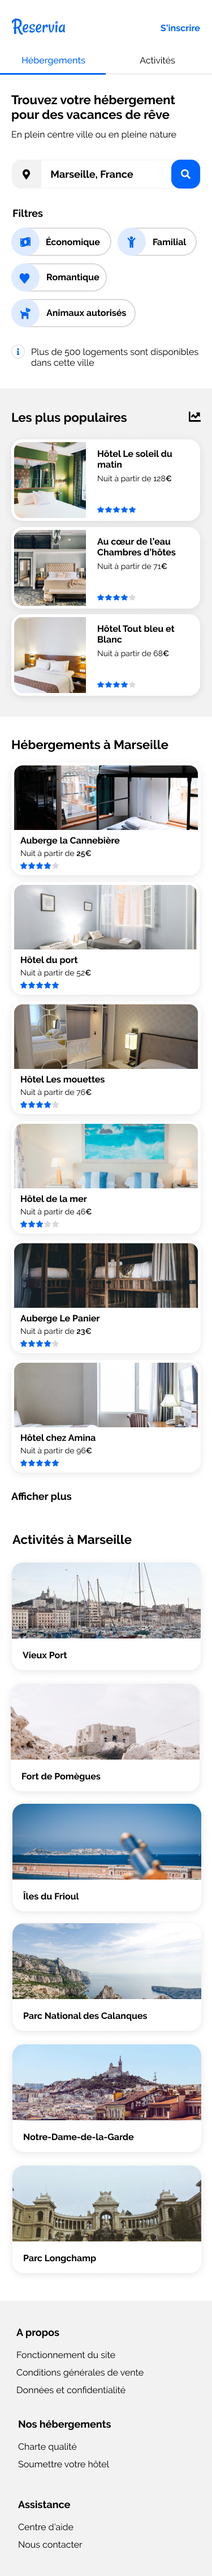
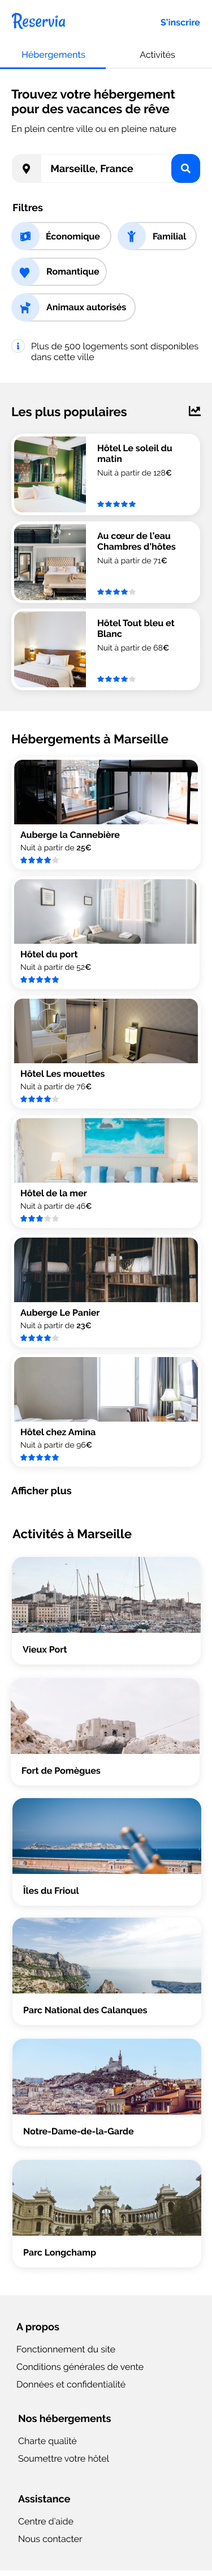
MAJ fichier css

Changed region(s): [[0.0293, 0.0, 0.968, 0.9987], [0.9093, 0.156, 0.9387, 0.1873]]

diff --git a/style.css b/style.css
@@ -1,7 +1,29 @@
+/** POLICES **/
+
 @font-face{
     font-family: raleway;
     src: url("./Raleway/static/Raleway-Regular.ttf");
 }
+
+@font-face{
+    font-family: raleway_bold;
+    src: url("./Raleway/static/Raleway-Bold.ttf")
+}
+
+@font-face{
+    font-family: raleway_extra_bold;
+    src: url("./Raleway/static/Raleway-ExtraBold.ttf")
+}
+
+@font-face{
+    font-family: raleway_black;
+    src: url("./Raleway/static/Raleway-Black.ttf")
+}
+
+
+
+
+/** GENERAL **/
 
 body, html {
     width: 100%;
@@ -16,9 +38,100 @@ h2{
     text-align:center;
 }
 
-img {
-    width: 100%;
+
+
+
+
+/** SECTION 1 **/
+
+#section-1{
+    display: flex;
+    flex-direction: column-reverse;
 }
+
+
+
+
+/** HEBERGEMENTS [SECTION-1] **/
+
+
+
+
+/** LES PLUS POPULAIRES [SECTION-1] **/
+
+
+#populaires{
+    width: 100%;
+    display: flex;
+    flex-wrap: wrap;
+    justify-content: center;
+
+    background-color: #f2f2f2;
+}
+
+#populaires h2{
+    margin: 0;
+    font-size: 16px;
+    font-family: raleway_extra_bold;
+    justify-self: left;
+}
+
+#populaires figure{
+    display: flex;
+    flex-flow: row wrap;
+    align-items: center;
+
+    margin: 5px 0;
+    height: 134px;
+    width: 100%-40px;
+    padding: 4px;
+    border-radius: 12px;
+    background-color: white;
+}
+
+#populaires figure figcaption{
+    display: flex;
+    flex-flow: column wrap;
+
+    height: 134px;
+}
+
+#populaires figure img{
+    object-fit: cover;
+    height: 134px;
+    width: 127px;
+    border-top-left-radius: 12px;
+    border-bottom-left-radius: 12px;
+}
+
+#populaires figure h4{
+    display: flex;
+    flex-wrap: wrap;
+
+    margin: 0px 0px 0px 0px;
+    font-family: raleway_extra_bold;
+
+
+}
+
+#populaires figure p{
+    margin: 0px 0px;
+    font-size: 13px;
+}
+
+#populaires figure div{
+    margin: 0px 0 0px 0px;
+    font-size: 11px;
+    color: #0065fc;
+}
+
+.etoile_vide{
+    color: #d9d9d9;
+    font-size: 11px;
+    margin: 0px 0px 0px 0px;
+}
+
+
 
 
 /** HEADER **/
@@ -81,53 +194,105 @@ header nav ul li a{
 }
 
 
+
+
 /** SECTION ACCEUIL **/
 
-#acceuil{
-    margin: 0 0 0 20px;
+.acceuil{
+    margin: 0 20px 0 20px;
 }
 
-h1{
+.acceuil p{
+    width:85%;
+    margin:0;
+}
+
+.acceuil h1{
     font-size: 20px;
     width: 85%;
     margin: 0 0 10px 0;
 }
 
-#acceuil p{
-    width:85%;
-    margin:0;
+.acceuil h3{
+    font-size: 16px;
+    font-family: raleway_extra_bold;
 }
 
-.button div {
-    width: 40px;
-    height: 40px;
-    border-radius: 40px;
-    background-color: #deebff; 
+.filtres{
+    display: flex;
+    flex-wrap: wrap;
 }
+
+button{
+    display: flex;
+    flex-direction: row;
+    align-items: center;
+
+    padding: 0px;
+    height: 50px;
+    border: 2px solid #e6e6e6;
+    background-color: white;
+    border-radius: 50px;
+    margin: 0px 10px 10px 0px;
+    font-family: raleway_bold;
+    cursor: pointer;
+}
+
+button:hover{
+    background-color: #e6e6e6;
+}
+
+.rond_bleu{
+    display: flex;
+    align-items: center;
+    justify-content: center;
+
+    width: 50px;
+    height: 50px;
+    border-radius: 50px;
+    background-color: #deebff;
+    z-index: 1;
+    margin-left: -2px;
+    color: #0065fc;
+    font-size: 16px;
+}
+
+.texte_filtre{
+    margin: 0px 14px 0px 12px;
+    font-size: 16px;
+}
+
+
+
 
 /** ASIDE **/
 
-aside p{
-    margin: 0;
-}
-
-aside {
+aside div{
     display: flex;
-    align-items: flex-start ;
-    margin: 0px 20px 0px 20px;
+    justify-content: center;
+    align-items: center;
+    flex: none;
+
+    width: 20px;
+    height: 20px;
+    border-radius: 20px;
+    border: 1px solid #e6e6e6;
+    color: #0065fc;
+    font-size: 12px;
+    margin-right: 10px;
 }
 
-aside i{
-    margin-right: 10px;
-    padding: 6px;
-    border: 2px solid #f2f2f2;
-    color:#0065fc;
-    border-radius: 10px 10px 10px 10px;
+aside{
+    display: flex;
+    margin: 10px 20px;
 }
 
 aside p{
-    font-size: 12px;
+    font-size: 14px;
+    margin-top: 5px;
 }
+
+
 
 
 /** FOOTER **/

diff --git a/index.html b/index.html
@@ -30,32 +30,52 @@
     </header>
 
     
-    <section id="acceuil">
+    <section class="acceuil">
 
             <h1>Trouvez votre hébergement pour des vacances de rêve</h1>
             <p>En plein centre ville ou en plein nature</p>
 
             <form>  </form>
 
-            <div id="filtres">Filtres</div>
+            <h3>Filtres</h3>
 
-            <div id="bouttons">
+            <div class="filtres">
                 <button>
-                    <div>
-                        <i class="fas fa-money-bill-wave">
-                            <span>Économique</span>
-                        </i>
+                    <div class="rond_bleu">
+                        <i class="fas fa-money-bill-wave"></i>
                     </div>
+                    <div class=texte_filtre>Économique</div>
                 </button>
-                <button><i class="fas fa-user-alt"></i>Familial</button>
-                <button><i class="fas fa-heart"></i>Romantique</button>
-                <button><i class="fas fa-dog"></i>Animaux autorisés</button>
+
+                <button>
+                    <div class="rond_bleu">
+                        <i class="fas fa-user-alt"></i>
+                    </div>
+                    <div class=texte_filtre>Familial</div>
+                </button>
+
+                <button>
+                    <div class="rond_bleu">
+                        <i class="fas fa-heart"></i>
+                    </div>
+                    <div class=texte_filtre>Romantique</div>
+                </button>
+
+                <button>
+                    <div class="rond_bleu">
+                        <i class="fas fa-dog"></i>
+                    </div>
+                    <div class=texte_filtre>Animaux autorisés</div>
+                </button>
             </div>
 
     </section>
 
 
-    <aside><i class="fas fa-info"></i><p>Plus de 500 logements sont disponibles dans cette ville</p></aside>
+    <aside>
+        <div><i class="fas fa-info"></i></div>
+        <p>Plus de 500 logements sont disponibles dans cette ville</p>
+    </aside>
 
 
     <section id=section-1>
@@ -170,8 +190,11 @@
 
 
         <div id="populaires">
-
-            <h2>Les plus populaires</h2>
+            
+            <div id="titre_et_icone">
+                <h2>Les plus populaires</h2>
+                <i class="fas fa-star"></i>
+            </div>
 
                     <figure>
                         <img src="images/hebergements/4_small/emile-guillemot-Bj_rcSC5XfE-unsplash.jpg"
@@ -200,7 +223,9 @@
                                     <i class="fas fa-star"></i>
                                     <i class="fas fa-star"></i>
                                     <i class="fas fa-star"></i>
-                                    <i class="far fa-star"></i>
+                                    <span class="etoile_vide">
+                                        <i class="fas fa-star"></i>
+                                    </span>
                                 </div>
                             </figcaption>
                     </figure>
@@ -216,7 +241,9 @@
                                     <i class="fas fa-star"></i>
                                     <i class="fas fa-star"></i>
                                     <i class="fas fa-star"></i>
-                                    <i class="far fa-star"></i>
+                                    <span class="etoile_vide">
+                                        <i class="fas fa-star"></i>
+                                    </span>
                                 </div>
                             </figcaption>
                     </figure>
